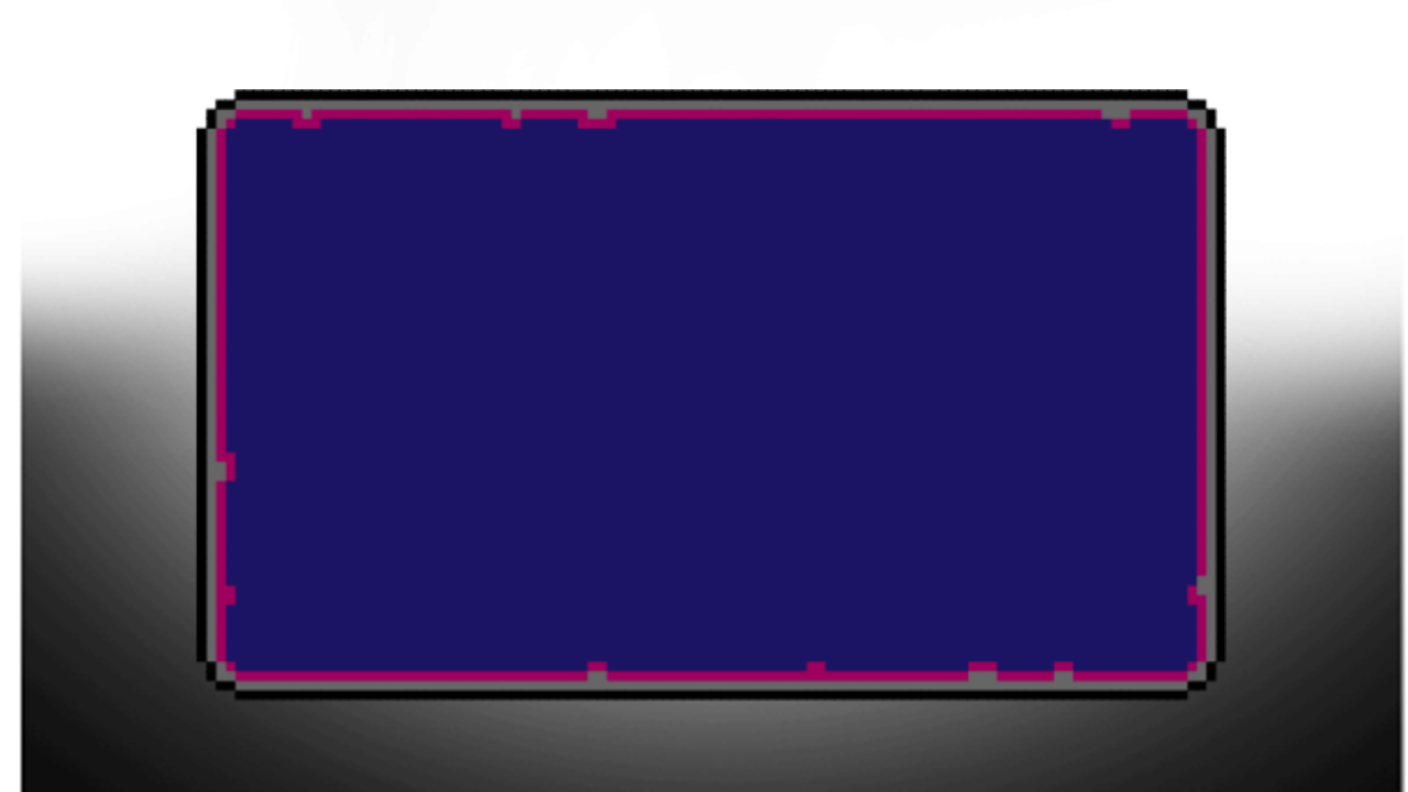
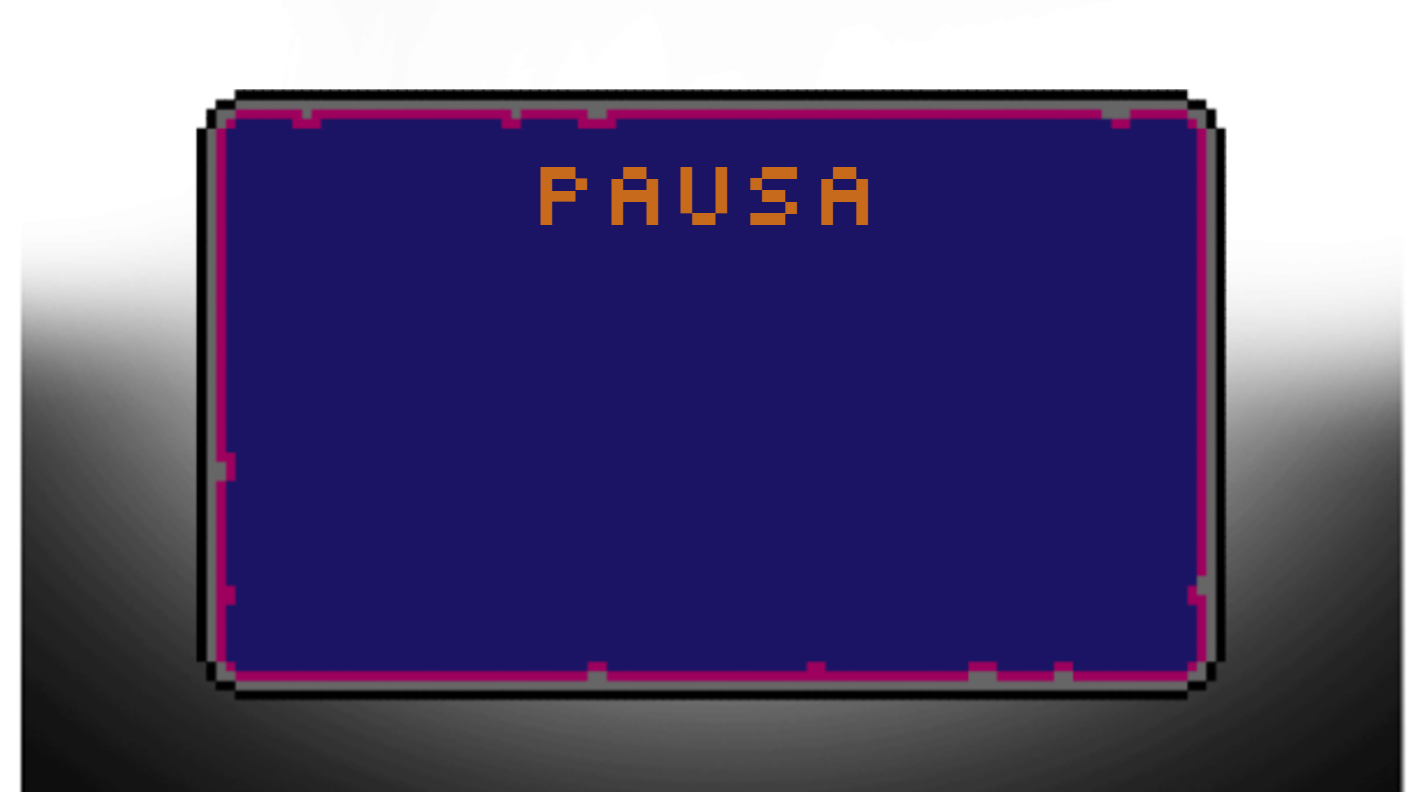
Actualizacion de botones y de pantalla de pausa

Changed region(s): [[0.375, 0.2121, 0.625, 0.303]]

diff --git a/core/src/mx/tec/astral/flytomars/Pantallas/PantallaJuego.java b/core/src/mx/tec/astral/flytomars/Pantallas/PantallaJuego.java
@@ -1,6 +1,7 @@
 package mx.tec.astral.flytomars.Pantallas;
 
 import com.badlogic.gdx.Gdx;
+import com.badlogic.gdx.Input;
 import com.badlogic.gdx.graphics.Texture;
 import com.badlogic.gdx.scenes.scene2d.InputEvent;
 import com.badlogic.gdx.scenes.scene2d.Stage;
@@ -42,6 +43,9 @@ public class PantallaJuego extends Pantalla {
         }
         crearMenu();
         crearHistoria();
+
+
+        Gdx.input.setCatchKey( Input.Keys.BACK, true );
     }
     //Historia
     PantallaHistoria historia;
@@ -85,13 +89,12 @@ public class PantallaJuego extends Pantalla {
             public void clicked(InputEvent event, float x, float y) {
                 juego.soundBotones.play();
                 juego.mp3.stop();
-                historia.setNumeroNivel(1);
-                historia.setTexturaFondo(texturaHistoria);
-                if(abiertas == 0) {
-                    //abiertas++;
+                if(!juego.isViewedStory1) {
+                    juego.isViewedStory1 = true;
+                    historia.setNumeroNivel(1);
+                    historia.setTexturaFondo(texturaHistoria);
                     juego.setScreen(historia);
-                }
-                else {
+                } else {
                     juego.setScreen(new PantallaNvl1(juego));
                 }
             }
@@ -100,32 +103,37 @@ public class PantallaJuego extends Pantalla {
         btnNvl2.addListener(new ClickListener(){
             @Override
             public void clicked(InputEvent event, float x, float y) {
-                juego.soundBotones.play();
-                juego.mp3.stop();
-                historia.setNumeroNivel(2);
-                historia.setTexturaFondo(textruaHistoria2);
-                if (abiertas == 0)
-                {
-                    juego.setScreen(historia);
+                if ( juego.isPassedLvl1 ) {
+                    juego.soundBotones.play();
+                    juego.mp3.stop();
+                    if (!juego.isViewedStory2) {
+                        historia.setNumeroNivel(2);
+                        historia.setTexturaFondo(texturaHistoria);
+                        juego.setScreen(historia);
+                    } else
+                        juego.setScreen(new PantallaNvl2(juego));
+                } else {
+                    juego.error.setVolume(0.2f);
+                    juego.error.play();
                 }
-                else{
-                juego.setScreen(new PantallaNvl2(juego));}
             }
         });
 
         btnNvl3.addListener(new ClickListener(){
             @Override
             public void clicked(InputEvent event, float x, float y) {
-                juego.soundBotones.play();
-                juego.mp3.stop();
-                historia.setTexturaFondo(texturaHistoria3);
-                historia.setNumeroNivel(3);
-                if(abiertas == 0)
-                {
-                    juego.setScreen(historia);
-                }
-                else {
-                    juego.setScreen(new PantallaNvl3(juego));
+                if ( juego.isPassedLvl2 ){
+                    juego.soundBotones.play();
+                    juego.mp3.stop();
+                    if (!juego.isViewedStory3) {
+                        historia.setNumeroNivel(3);
+                        historia.setTexturaFondo(texturaHistoria);
+                        juego.setScreen(historia);
+                    }else
+                        juego.setScreen(new PantallaNvl3(juego));
+                } else {
+                    juego.error.setVolume(0.2f);
+                    juego.error.play();
                 }
             }
         });
@@ -139,6 +147,10 @@ public class PantallaJuego extends Pantalla {
 
         // La ESCENA se encarga de ATENDER LOS EVENTOS DE ENTRADA
         Gdx.input.setInputProcessor(escenaMenuNiveles);
+
+
+        if ( Gdx.input.isKeyPressed(Input.Keys.BACK) )
+            juego.setScreen( new PantallaJuego(juego) );
     }
 
     private Button crearBoton(String archivo, String clickeado) {
@@ -149,7 +161,6 @@ public class PantallaJuego extends Pantalla {
         TextureRegionDrawable trdBtnClick = new TextureRegionDrawable(texturaClickeada);
         return new Button(trdBtn, trdBtnClick);
     }
-
     @Override
     public void render(float delta) {
 
@@ -162,6 +173,10 @@ public class PantallaJuego extends Pantalla {
         batch.end();
 
         escenaMenuNiveles.draw();
+
+
+        if ( Gdx.input.isKeyPressed(Input.Keys.BACK) )
+            juego.setScreen( new PantallaMenu(juego) );
     }
 
     @Override

diff --git a/core/src/mx/tec/astral/flytomars/Pantallas/PantallaNvl1.java b/core/src/mx/tec/astral/flytomars/Pantallas/PantallaNvl1.java
@@ -61,11 +61,15 @@ public class PantallaNvl1 extends Pantalla {
 
     // Font of score.
     Texto texto;
+    Texto textoPausa;
+    Texto textoPasado;
     private int puntos = 0;
 
     private final Juego juego;
 //    Texture texturaFondo;
 //    private Stage escenaMenuNiveles;
+
+    private final int PUNTOS_SIGUIENTE_NIVEL = 2500;
 
     //  Personaje (Hero)
     private Hero hero;
@@ -204,6 +208,8 @@ public class PantallaNvl1 extends Pantalla {
 
     private void crearTexto() {
         texto = new Texto();
+        textoPausa = new Texto();
+        textoPasado = new Texto();
     }
 
     private void cargarMusica() {
@@ -313,6 +319,7 @@ public class PantallaNvl1 extends Pantalla {
         borrarPantalla(0, 0, 0); //Borrar con color negro}
         batch.setProjectionMatrix(camara.combined);
 
+
 /**======================================================
 //                      MAPA                           ||
 //======================================================
@@ -361,13 +368,6 @@ public class PantallaNvl1 extends Pantalla {
 //======================================================
 */
         hero.render(batch);
-        if(powerUpArray.size != 0 ) {
-            System.out.println("Se dibuja power");
-            int random = (int)MathUtils.random()*3;
-            for (PowerUp power : powerUpArray) {
-                power.creaNuevoPowerUp(batch, random);
-            }
-        }
 
         for (PowerUp powerUp : arrPowerUps ) {
             powerUp.render(batch);
@@ -404,9 +404,19 @@ public class PantallaNvl1 extends Pantalla {
         if ( Gdx.input.isKeyPressed(Input.Keys.BACK) )
             juego.setScreen( new PantallaJuego(juego) );
 
-        if ( !juego.isPassedLvl1 && puntos >= 2500 )
+        if ( !juego.isPassedLvl1 && puntos >= PUNTOS_SIGUIENTE_NIVEL )
             juego.isPassedLvl1 = true;
 
+        if (estadoJuego == EstadoJuego.PAUSA) {
+            batch.begin();
+            textoPausa.mostrarMensaje(batch, "Score actual: " + puntos, ANCHO/2 - 50, ALTO - 250);
+            if ( !juego.isPassedLvl1 )
+                textoPasado.mostrarMensaje(batch, "Siguiente nivel a: " + (PUNTOS_SIGUIENTE_NIVEL - puntos) + " puntos", ANCHO/2 - 40, ALTO - 350);
+            else
+                textoPasado.mostrarMensaje(batch, "¡Nivel 2 desbloqueado!", ANCHO/2 - 50, ALTO - 350);
+
+            batch.end();
+        }
     }
 
     private void actualizar(float delta){
@@ -417,10 +427,6 @@ public class PantallaNvl1 extends Pantalla {
         crearLetal(delta);
         actualizarItems(delta);
         depurarPowerUps();
-
-        //if (probabilidad() >= 80) {
-            System.out.println("Se crea power");
-            crearPower(delta);
 
         if(arrBalas.size != 0){
             colisionesAlienAgil();
@@ -450,23 +456,6 @@ public class PantallaNvl1 extends Pantalla {
         if(arrVidas.size <= 0) {
             estadoJuego = EstadoJuego.PERDIO;
             juego.perder.play();
-        }
-    }
-/**======================================================
- //                    PowerUps                         ||
- //====================================================*/
-    private void crearPower(float delta)
-    {
-        int x = (int)MathUtils.random();
-        int y = (int)MathUtils.random();
-        timerCrearPowerCup += delta;
-        System.out.println("" + timerCrearPowerCup);
-        if (timerCrearPowerCup >= TIEMPO_CREAR_POWERUP) {
-            System.out.println("Creando powwr");
-            timerCrearPowerCup = 0;
-            //crearlos
-            PowerUp power = new PowerUp(texturaVida, texturaEscudo, texturaMoneda, x, y);
-            powerUpArray.add(power);
         }
     }
 

diff --git a/core/src/mx/tec/astral/flytomars/Pantallas/PantallaNvl2.java b/core/src/mx/tec/astral/flytomars/Pantallas/PantallaNvl2.java
@@ -61,6 +61,7 @@ public class PantallaNvl2 extends Pantalla {
 
     // Font of score.
     Texto texto;
+    Texto textoPausa;
     private int puntos = 0;
 
     private final Juego juego;
@@ -203,6 +204,7 @@ public class PantallaNvl2 extends Pantalla {
 
     private void crearTexto() {
         texto = new Texto();
+        textoPausa = new Texto();
     }
 
     private void cargarMusica() {
@@ -313,6 +315,7 @@ public class PantallaNvl2 extends Pantalla {
         borrarPantalla(0, 0, 0); //Borrar con color negro}
         batch.setProjectionMatrix(camara.combined);
 
+
 /**======================================================
  //                      MAPA                           ||
  //======================================================
@@ -400,6 +403,11 @@ public class PantallaNvl2 extends Pantalla {
         if ( !juego.isPassedLvl1 && puntos >= 2500 )
             juego.isPassedLvl1 = true;
 
+        if (estadoJuego == EstadoJuego.PAUSA) {
+            batch.begin();
+            textoPausa.mostrarMensaje(batch, "Score actual: " + puntos, ANCHO/2 - 50, ALTO - 250);
+            batch.end();
+        }
     }
 
     private void actualizar(float delta){
